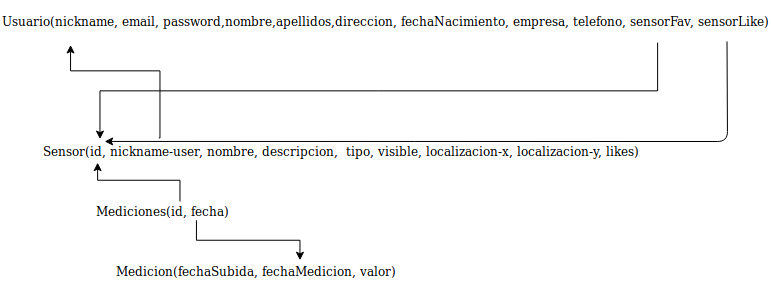
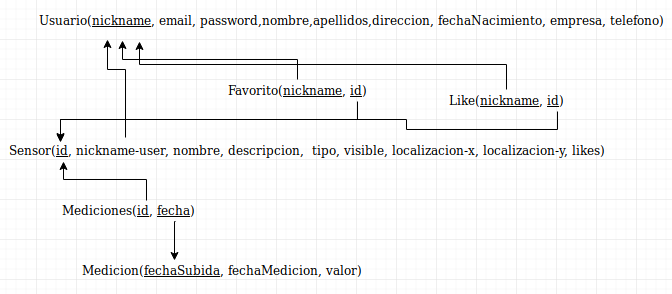
Añadido las clases de peewee de la base de datos y modifcado el esquema de la base de datos
Pendiente la tabla Mediciones y Medicion, y las consultas básicas. Es necesario probarlo todo

diff --git a/src/db.py b/src/db.py
@@ -1,0 +1,50 @@
+from peewee import *
+import configparser
+
+conf = configparser.ConfigParser()
+conf.read('config.txt')
+
+db = MySQLDatabase(conf['DataBase']['name'], user=conf['DataBase']['user'], password=conf['DataBase']
+                   ['password'], host=conf['DataBase']['host'], port=conf['DataBase']['port'])
+
+class Usuario(Model):
+    nickname = CharField(max_length=20, primary_key= True)
+    email = CharField(null=False)
+    password = CharField(max_length=10,null= False, unique = True)
+    nombre = CharField(max_length=10, null= True)
+    apellidos = CharField(max_length=20, null= True)
+    direccion = CharField(max_length=30, null= True)
+    nacimiento = DateField(null= True)
+    empresa = CharField(max_length=30, null= True)
+    telefono = IntegerField(null= True)
+    class Meta:
+        database = db
+
+class Sensor(Model):
+    id = IntegerField(primary_key=True)
+    nombre = CharField(max_length=10, null= False)
+    descripcion = CharField(null = True)
+    tipo = IntegerField(null=False)
+    visible = BooleanField(null=False, default=True)
+    x = IntegerField(null=False)
+    y = IntegerField(null=False)
+    class Meta:
+        database = db
+
+class Favorito(Model):
+    nickname=ForeignKeyField(Usuario)
+    id = ForeignKeyField(Sensor)
+    class Meta:
+        database = db
+        primary_key = CompositeKey('nickname', 'tag')
+
+class Like(Model):
+    nickname=ForeignKeyField(Usuario)
+    id = ForeignKeyField(Sensor)
+    class Meta:
+        database = db
+        primary_key = CompositeKey('nickname', 'tag')
+
+
+
+

diff --git a/src/main.py b/src/main.py
@@ -1,6 +1,7 @@
 #coding: utf-8
 from flask import Flask, render_template, request, redirect, url_for
 
+
 app = Flask(__name__)
 
 @app.route("/")
